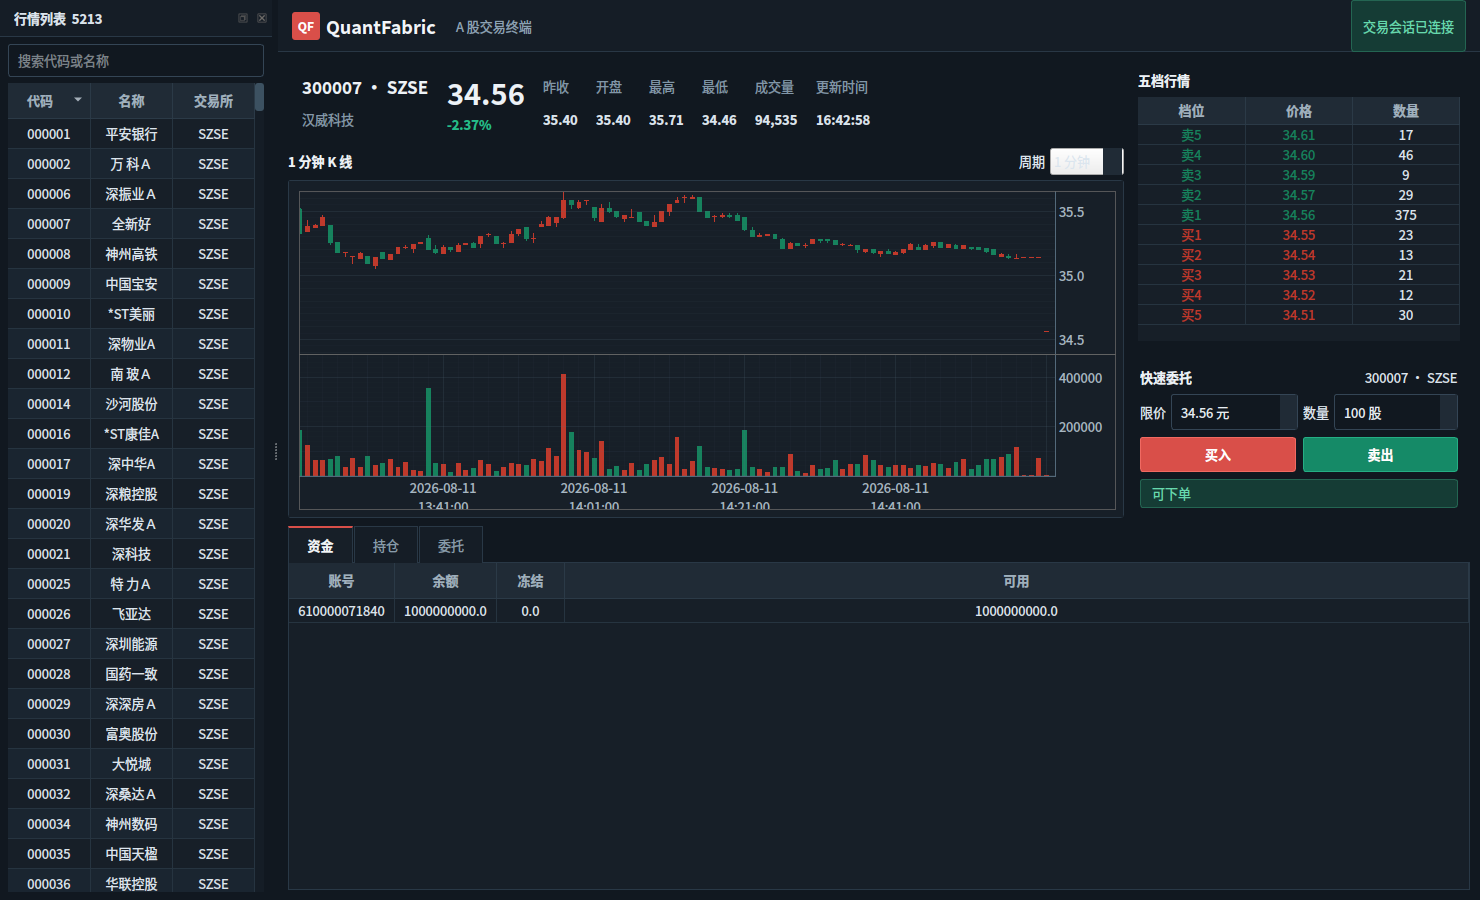
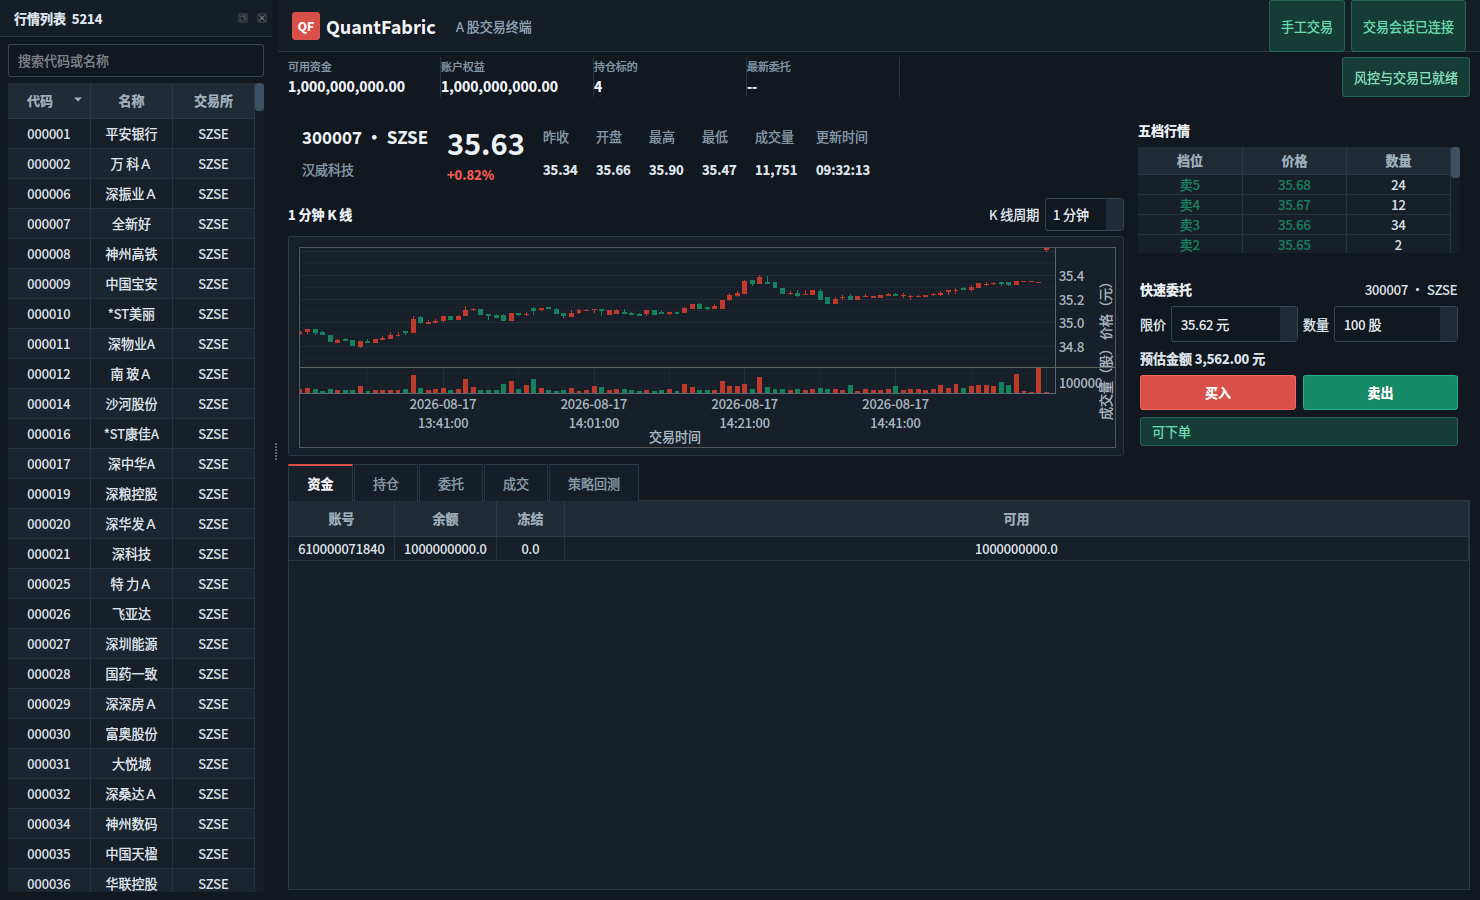
docs: add readable architecture and runtime guide

diff --git a/README.md b/README.md
@@ -4,31 +4,51 @@ QuantFabric 是一个由 C++ 交易核心、vn.py 交易工作台和业务后台
 当前环境使用 PyTdx 实时行情、ClickHouse 历史分钟 K 线和 ATP 测试柜台（账户
 `610000071840`）。
 
-## 模块与链路
+## 项目模块
 
-| 模块 | 作用 |
-| --- | --- |
-| `VnpyMonitor` | vn.py Qt 交易工作台：行情、K 线、资金、持仓、委托、成交和回测 |
-| `BusinessAdminService` | 证券、产品、资金账户、权限、版本发布和审计 |
-| `XServer → XRiskJudge → XTrader` | C++ 会话、风控和订单链路 |
-| `XMarketCenter` / `PyTdxBridge` | 实时行情接入与发布 |
-| `HistoryDataService` / `BacktestService` | ClickHouse 历史数据和只读策略回测 |
+| 模块 | 所在层 | 用通俗的话理解 | 主要入口 |
+| --- | --- | --- | --- |
+| `VnpyMonitor` | 交易前端 | 看行情、看 K 线、查资金持仓、手工下单、运行回测 | `python -m VnpyMonitor.app` |
+| `BusinessAdminService` | 业务后台 | 管理证券、产品、资产单元、资金账户、版本和审计 | `http://127.0.0.1:19080/` |
+| `AuthAdminService` | 权限中心 | 登录、角色和 Casbin 操作权限 | `http://127.0.0.1:18080/` |
+| `XServer` / `XWatcher` | C++ 会话层 | 接收客户端请求、转发消息、监控运行状态 | `runtime/start.sh` |
+| `XRiskJudge` | C++ 风控层 | 在订单到柜台前检查账户、证券和风险规则 | `runtime/start.sh` |
+| `XTrader` / `ATPBridge` | C++ 交易层 | 把标准订单发给 ATP，并把委托、成交回报带回来 | `runtime/start.sh` |
+| `XMarketCenter` / `PyTdxBridge` | C++ 行情层 | 接收实时行情，转换成统一行情消息 | `runtime/start.sh` |
+| `HistoryDataService` / `BacktestService` | 数据研究层 | 从 ClickHouse 取历史 K 线，计算收益、回撤和成交 | `18081` / `18082` |
 
-```mermaid
-flowchart LR
-    Admin[BusinessAdmin] -->|发布规则| Server[XServer]
-    Vnpy[vn.py 工作台] <-->|原生 PackMessage| Server
-    PyTdx[PyTdx] --> Market[XMarketCenter] --> Server
-    Server --> Risk[XRiskJudge] --> Trader[XTrader] --> ATP[ATP 测试柜台]
-    CK[ClickHouse] --> History[HistoryDataService] --> Vnpy
-    History --> Backtest[BacktestService] --> Vnpy
-```
+## 一张图看懂架构
 
 ## 运行界面
 
 ![vn.py 交易工作台](docs/images/vnpy-trading-workbench.png)
 
 ![BusinessAdmin 业务后台](docs/images/business-admin-securities.png)
+
+![QuantFabric 系统架构](docs/images/quantfabric-architecture.svg)
+
+## 一条链路看懂业务
+
+```mermaid
+flowchart TD
+    A[后台登录] --> B[编辑证券和账户规则]
+    B --> C[校验并发布版本]
+    C --> D[XServer 热加载已发布规则]
+    E[vn.py 登录] --> F[选择证券并订阅行情]
+    F --> G[行情进入 K 线和五档]
+    G --> H[手工委托]
+    H --> I[权限校验]
+    I --> J[XRiskJudge 风控]
+    J --> K[XTrader -> ATP]
+    K --> L[委托 / 成交 / 资金回报]
+    L --> E
+    M[策略回测页] --> N[HistoryDataService]
+    N --> O[BacktestService]
+    O --> P[收益曲线、回撤曲线、成交明细]
+```
+
+简单理解：后台负责“允许谁交易什么”，交易端负责“看行情和发请求”，C++ 核心负责“校验、
+风控和柜台通信”；回测是独立的只读链路，不会触发真实委托。
 
 ## 首次安装与构建
 
@@ -63,6 +83,12 @@ cmake --build build --target \
 ./runtime/start.sh
 ```
 
+看到下面的提示，说明 C++ 主链路已启动：
+
+```text
+QuantFabric services are running in real-trade mode.
+```
+
 历史行情和回测服务需要本机 ClickHouse 只读配置：
 
 ```bash
@@ -81,6 +107,16 @@ DISPLAY=:0 ./build/QtAdmin_0.1.0
 
 业务后台也可直接用浏览器访问：<http://127.0.0.1:19080/>。
 本地开发账号为 `admin / 123456`。
+
+### 启动后看什么
+
+| 页面 | 查看位置 | 能验证的内容 |
+| --- | --- | --- |
+| 交易工作台 | vn.py 窗口 | 左侧证券列表、实时行情、K 线、五档、资金、持仓、委托、成交 |
+| 快速委托 | 交易工作台右侧 | 选择当前证券后填写价格和数量，买入/卖出会经过 C++ 风控 |
+| 策略回测 | 交易工作台底部“策略回测” | 选择日期和均线参数，查看收益率、回撤、夏普和成交明细 |
+| 证券主数据 | 浏览器 `19080` | 查看版本、证券范围、买入权限、停牌和价格单位 |
+| 交易对账 | 后台左侧“交易对账” | 查看 ATP 资金、持仓、委托、成交和重连恢复记录 |
 
 停止全部运行服务：
 
